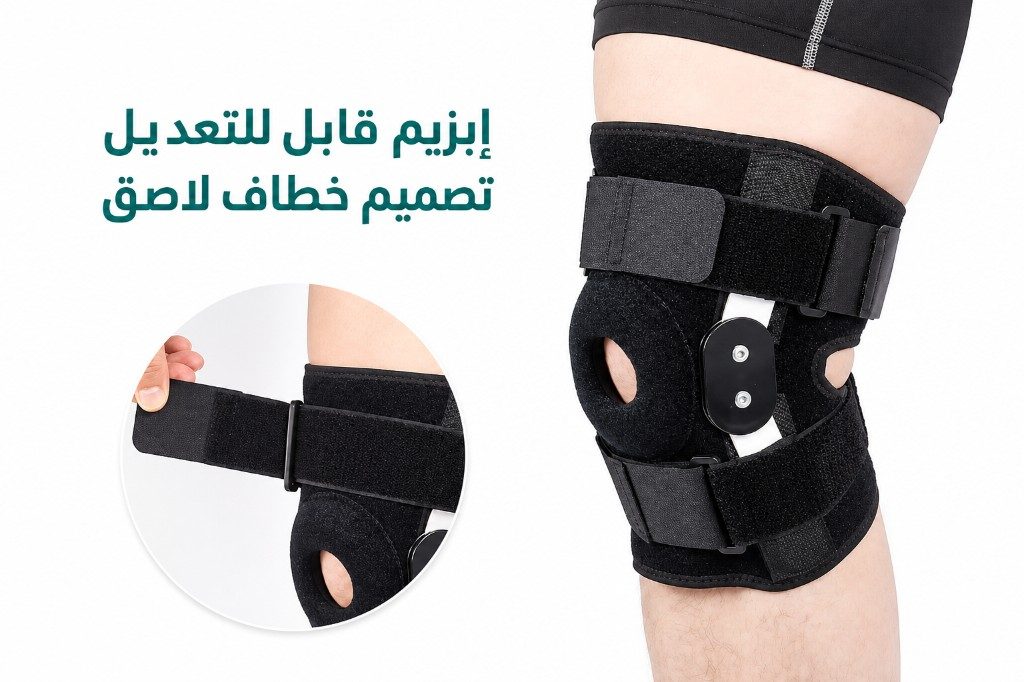
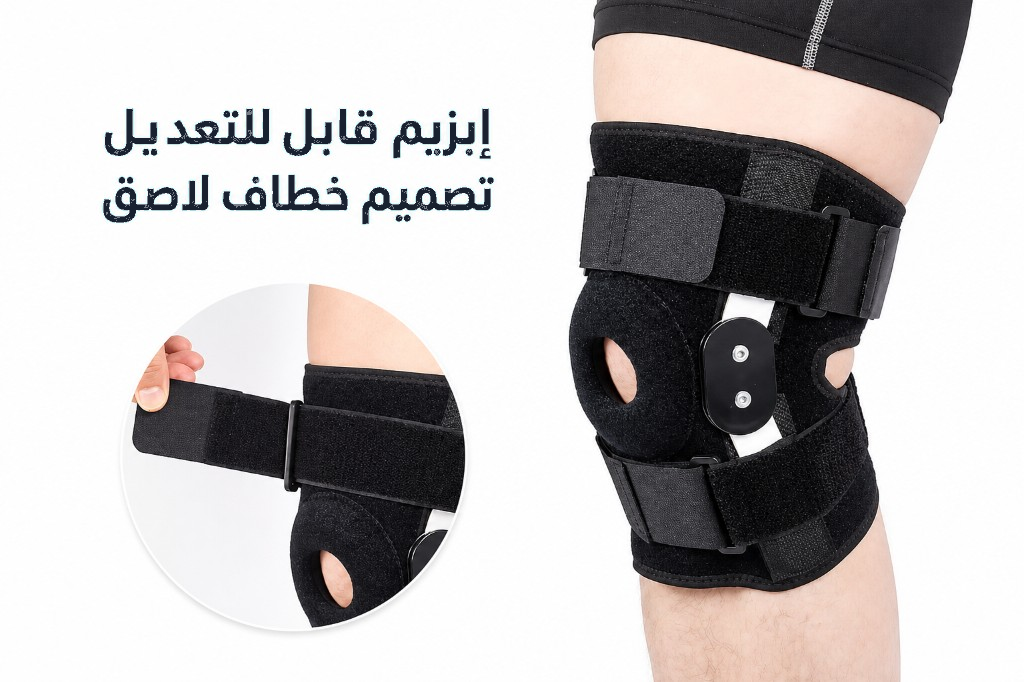
Retune knee brace creatives to steel + champagne brand palette.
Replace teal accents with VORLAY steel grey and champagne gold, and add before/after to the daamat-rukba gallery.

Changed region(s): [[0.0938, 0.154, 0.5, 0.3387]]

diff --git a/config/niches/comfort/catalog.ts b/config/niches/comfort/catalog.ts
@@ -42,6 +42,7 @@ const products: Product[] = [
     quantityUnit: "piece",
     images: [
       staticProductImage("knee-hero.png"),
+      staticProductImage("knee-before-after.png"),
       staticProductImage("knee-features-numbered.png"),
       staticProductImage("knee-infographic.png"),
       staticProductImage("knee-hinges-story.png"),
@@ -51,7 +52,7 @@ const products: Product[] = [
       staticProductImage("knee-how-to-wear.png"),
       staticProductImage("knee-dims.png"),
     ],
-    afterPainImage: staticProductImage("knee-features-numbered.png"),
+    afterPainImage: staticProductImage("knee-before-after.png"),
     storyImages: [
       staticProductImage("knee-hinges-story.png"),
       staticProductImage("knee-infographic.png"),
